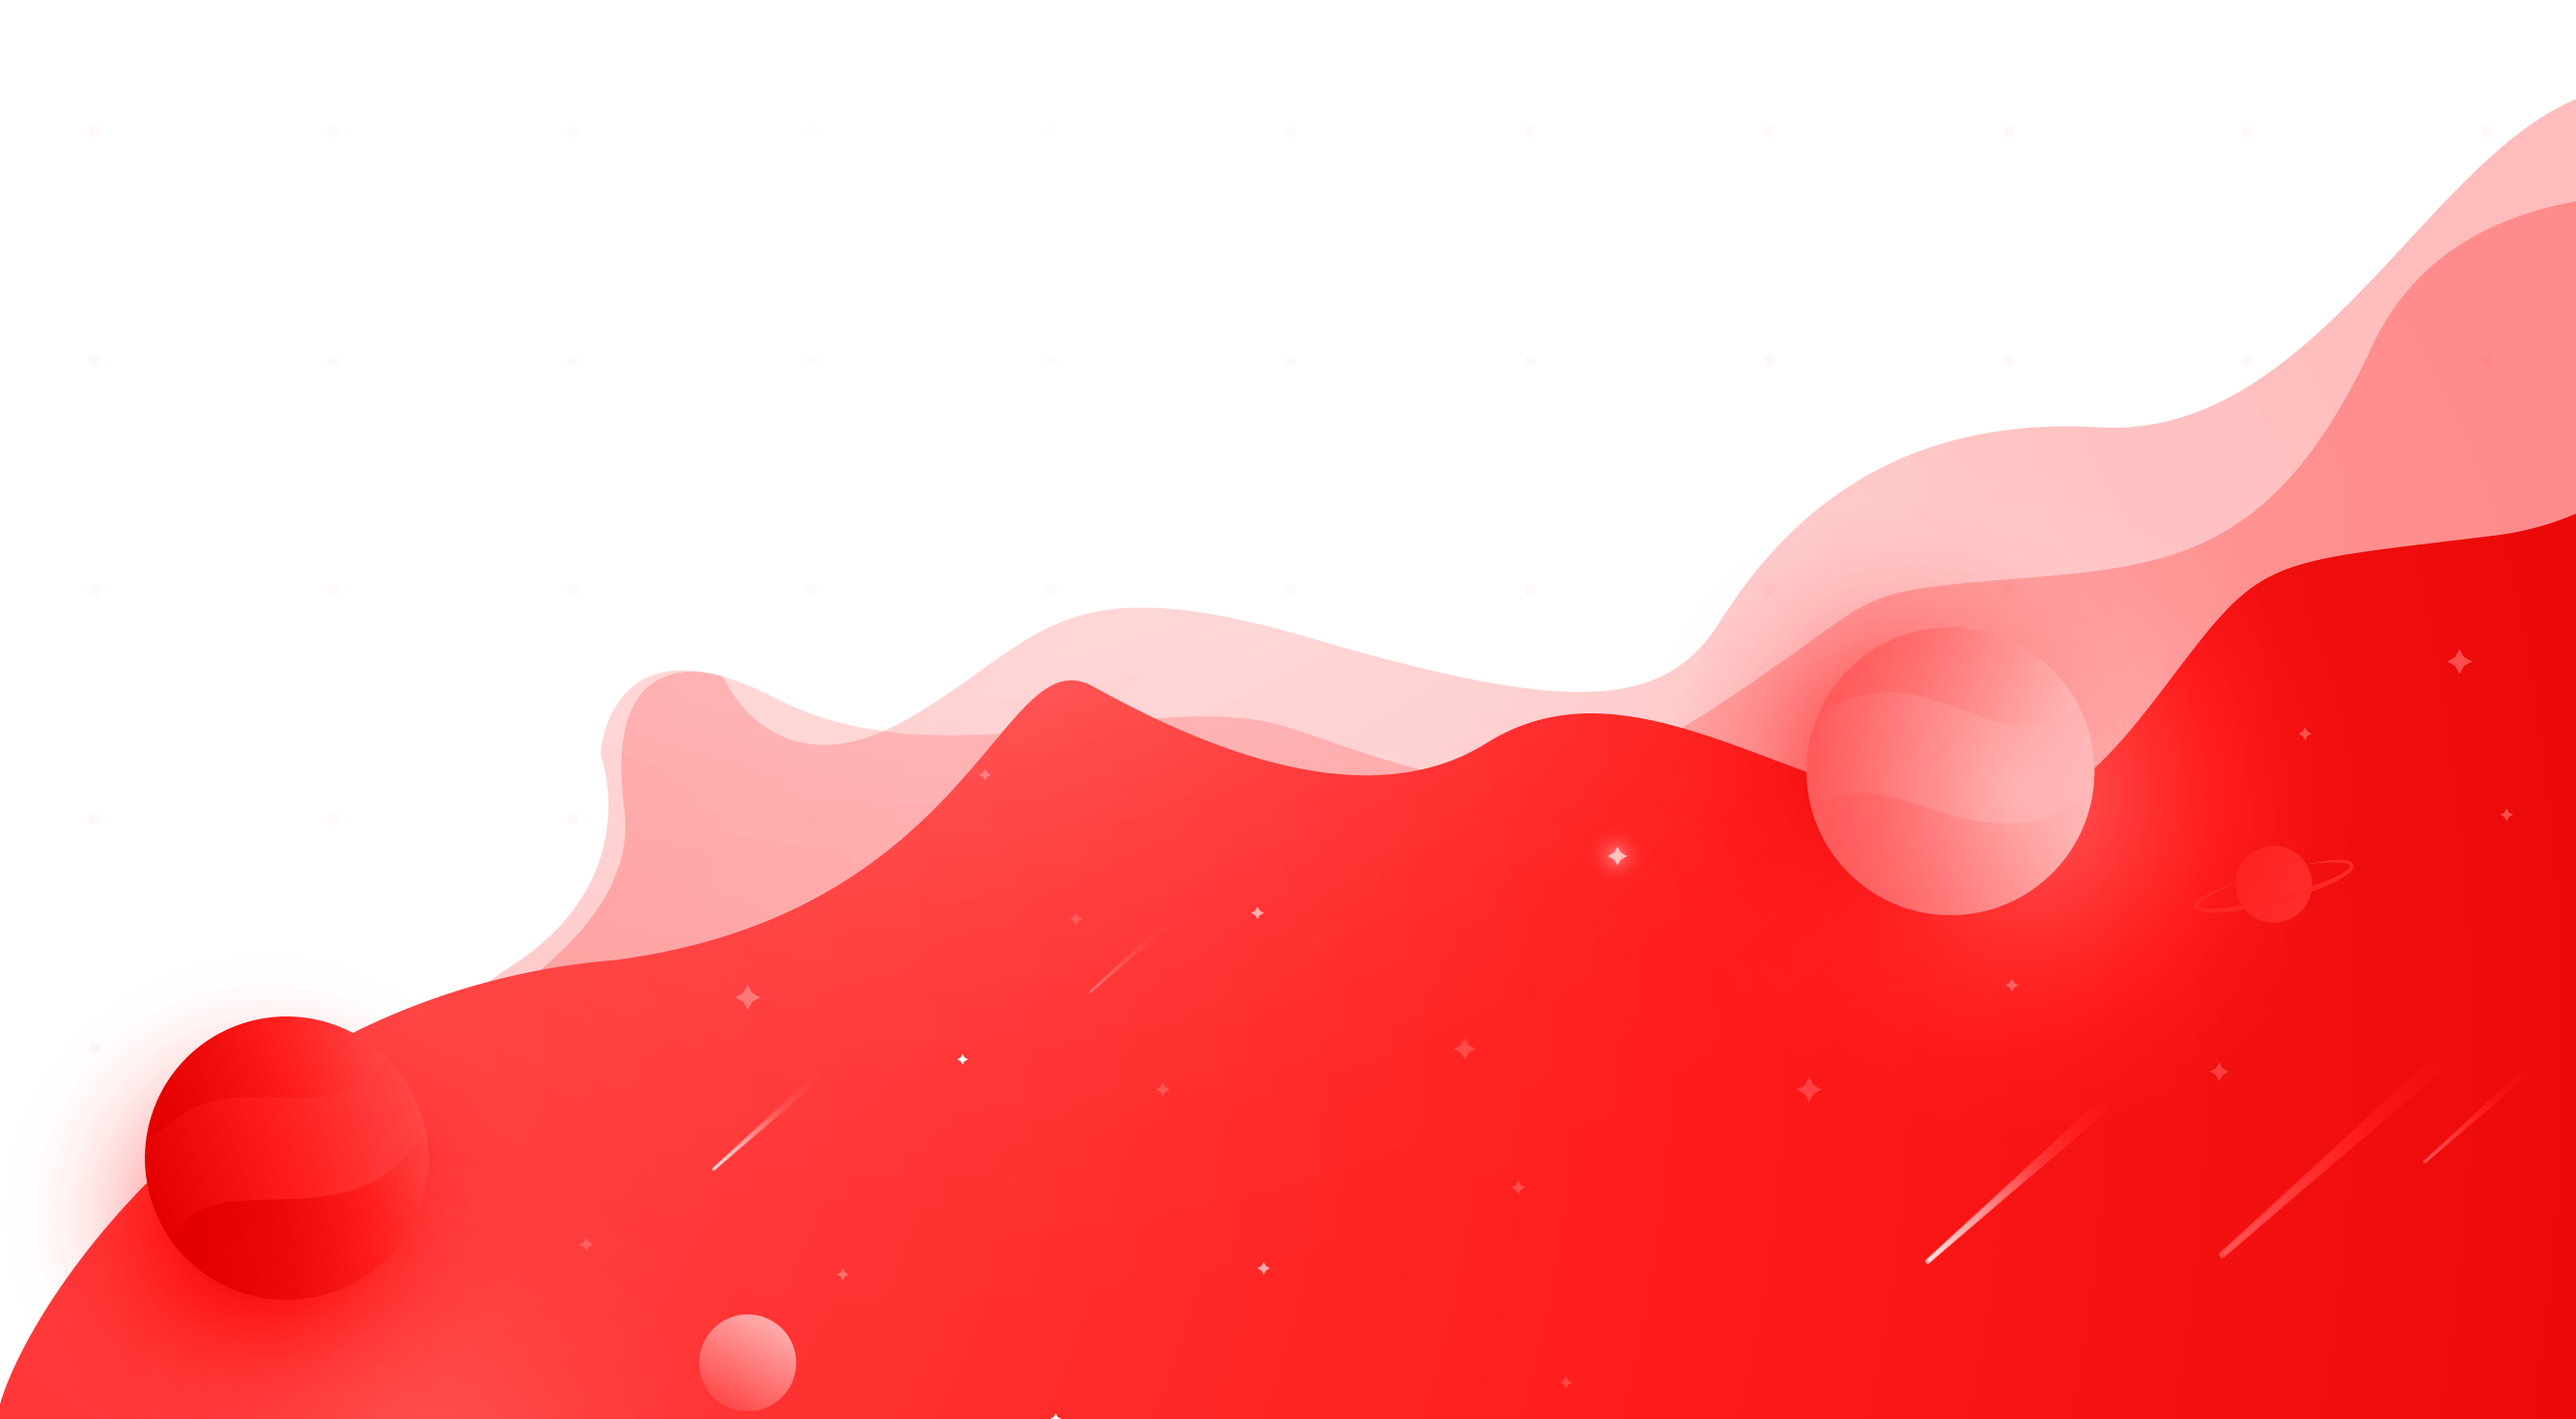
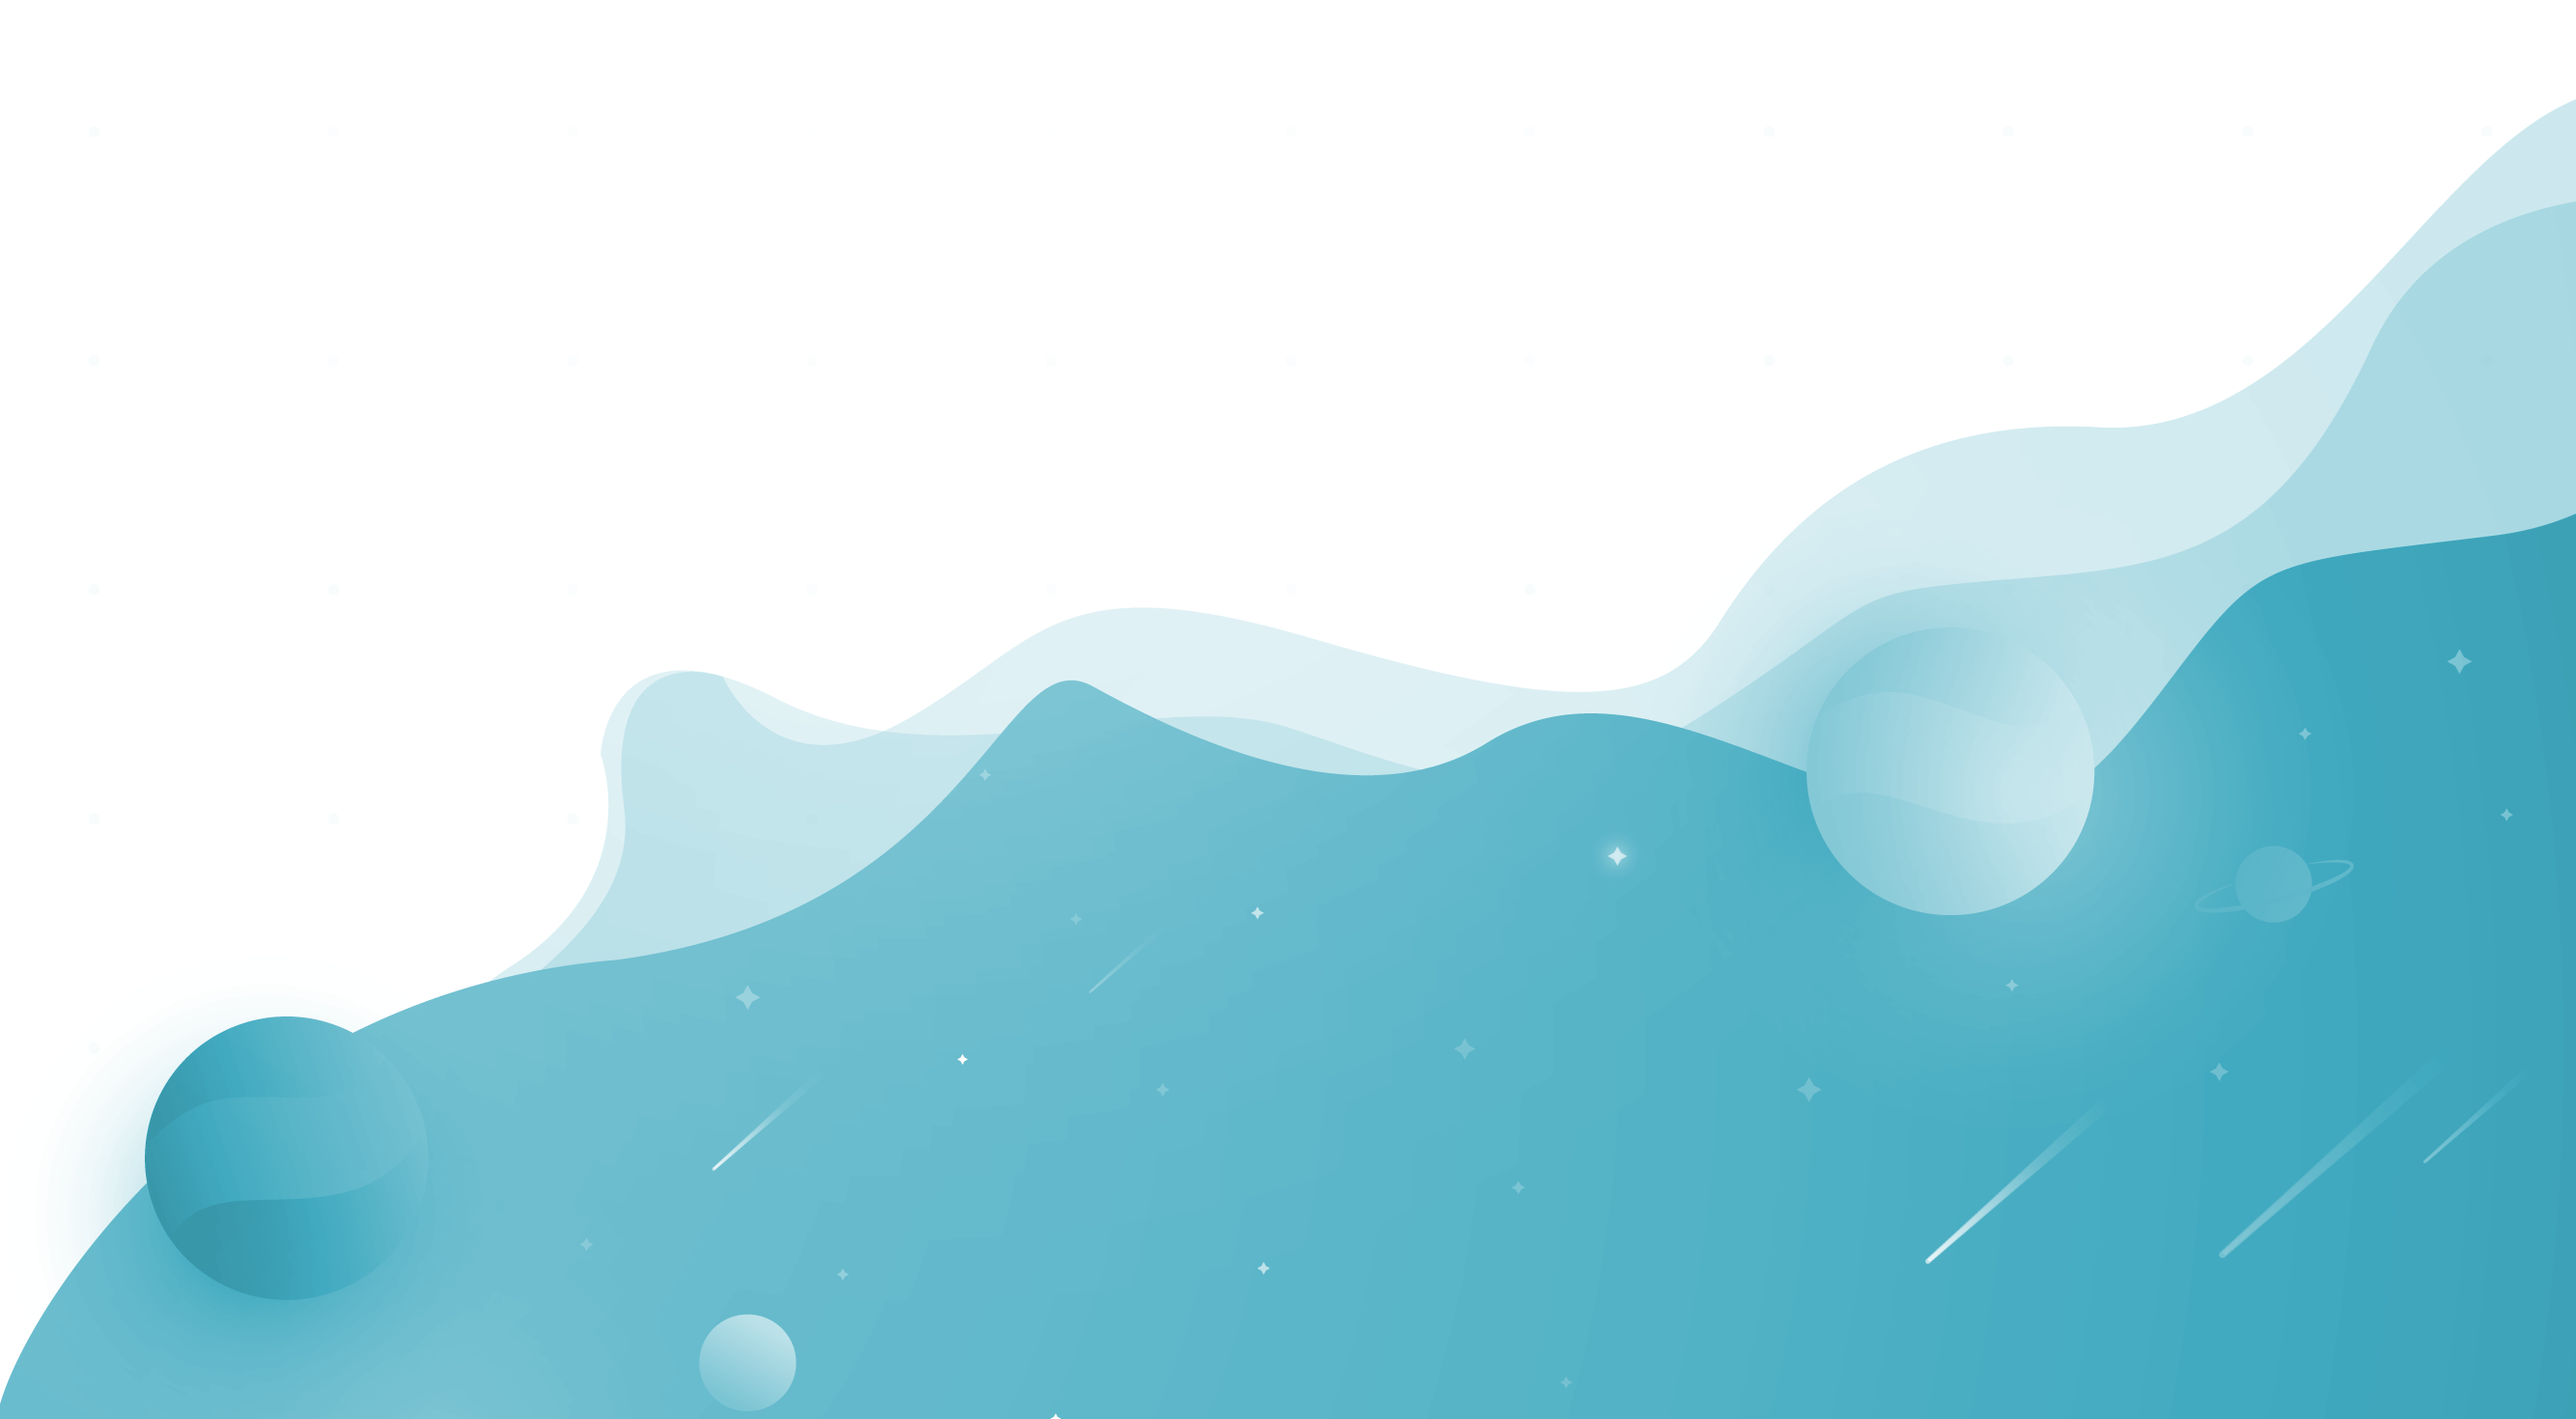
update

diff --git a/css/style.css b/css/style.css
@@ -111,7 +111,7 @@ footer i{
 }
 
 footer .fa-linkedin-in{
-    color: #E20000;
+    color: #458191;
     font-size: 28px;
     background-color: white;
     border-radius: 22px;
@@ -152,7 +152,7 @@ p{
     color: white;
     font-size: 16px;
     font-weight: 400;
-    background: linear-gradient(90deg, rgba(81,97,130,1) 0%, rgba(69,129,145,1) 50%, rgba(8,70,195,1) 100%);
+    background: linear-gradient(90deg, rgba(69,129,145,1) 0%, rgba(76,110,136,1) 25%, rgba(81,97,130,1) 50%, rgba(96,127,163,1) 75%, rgba(8,70,195,1) 100%);/*linear-gradient(90deg, rgba(69,129,145,1) 0%, rgba(76,110,136,1) 25%, rgba(81,97,130,1) 50%, rgba(96,127,163,1) 75%, rgba(8,70,195,1) 100%);*//*linear-gradient(90deg, rgba(81,97,130,1) 0%, rgba(69,129,145,1) 50%, rgba(8,70,195,1) 100%);*/
 }
 
 .btnrojo{
@@ -190,7 +190,7 @@ p{
 }
 
 .linkrojo{
-    color: #E20000;
+    color: #458191;
 }
 
 .active{
